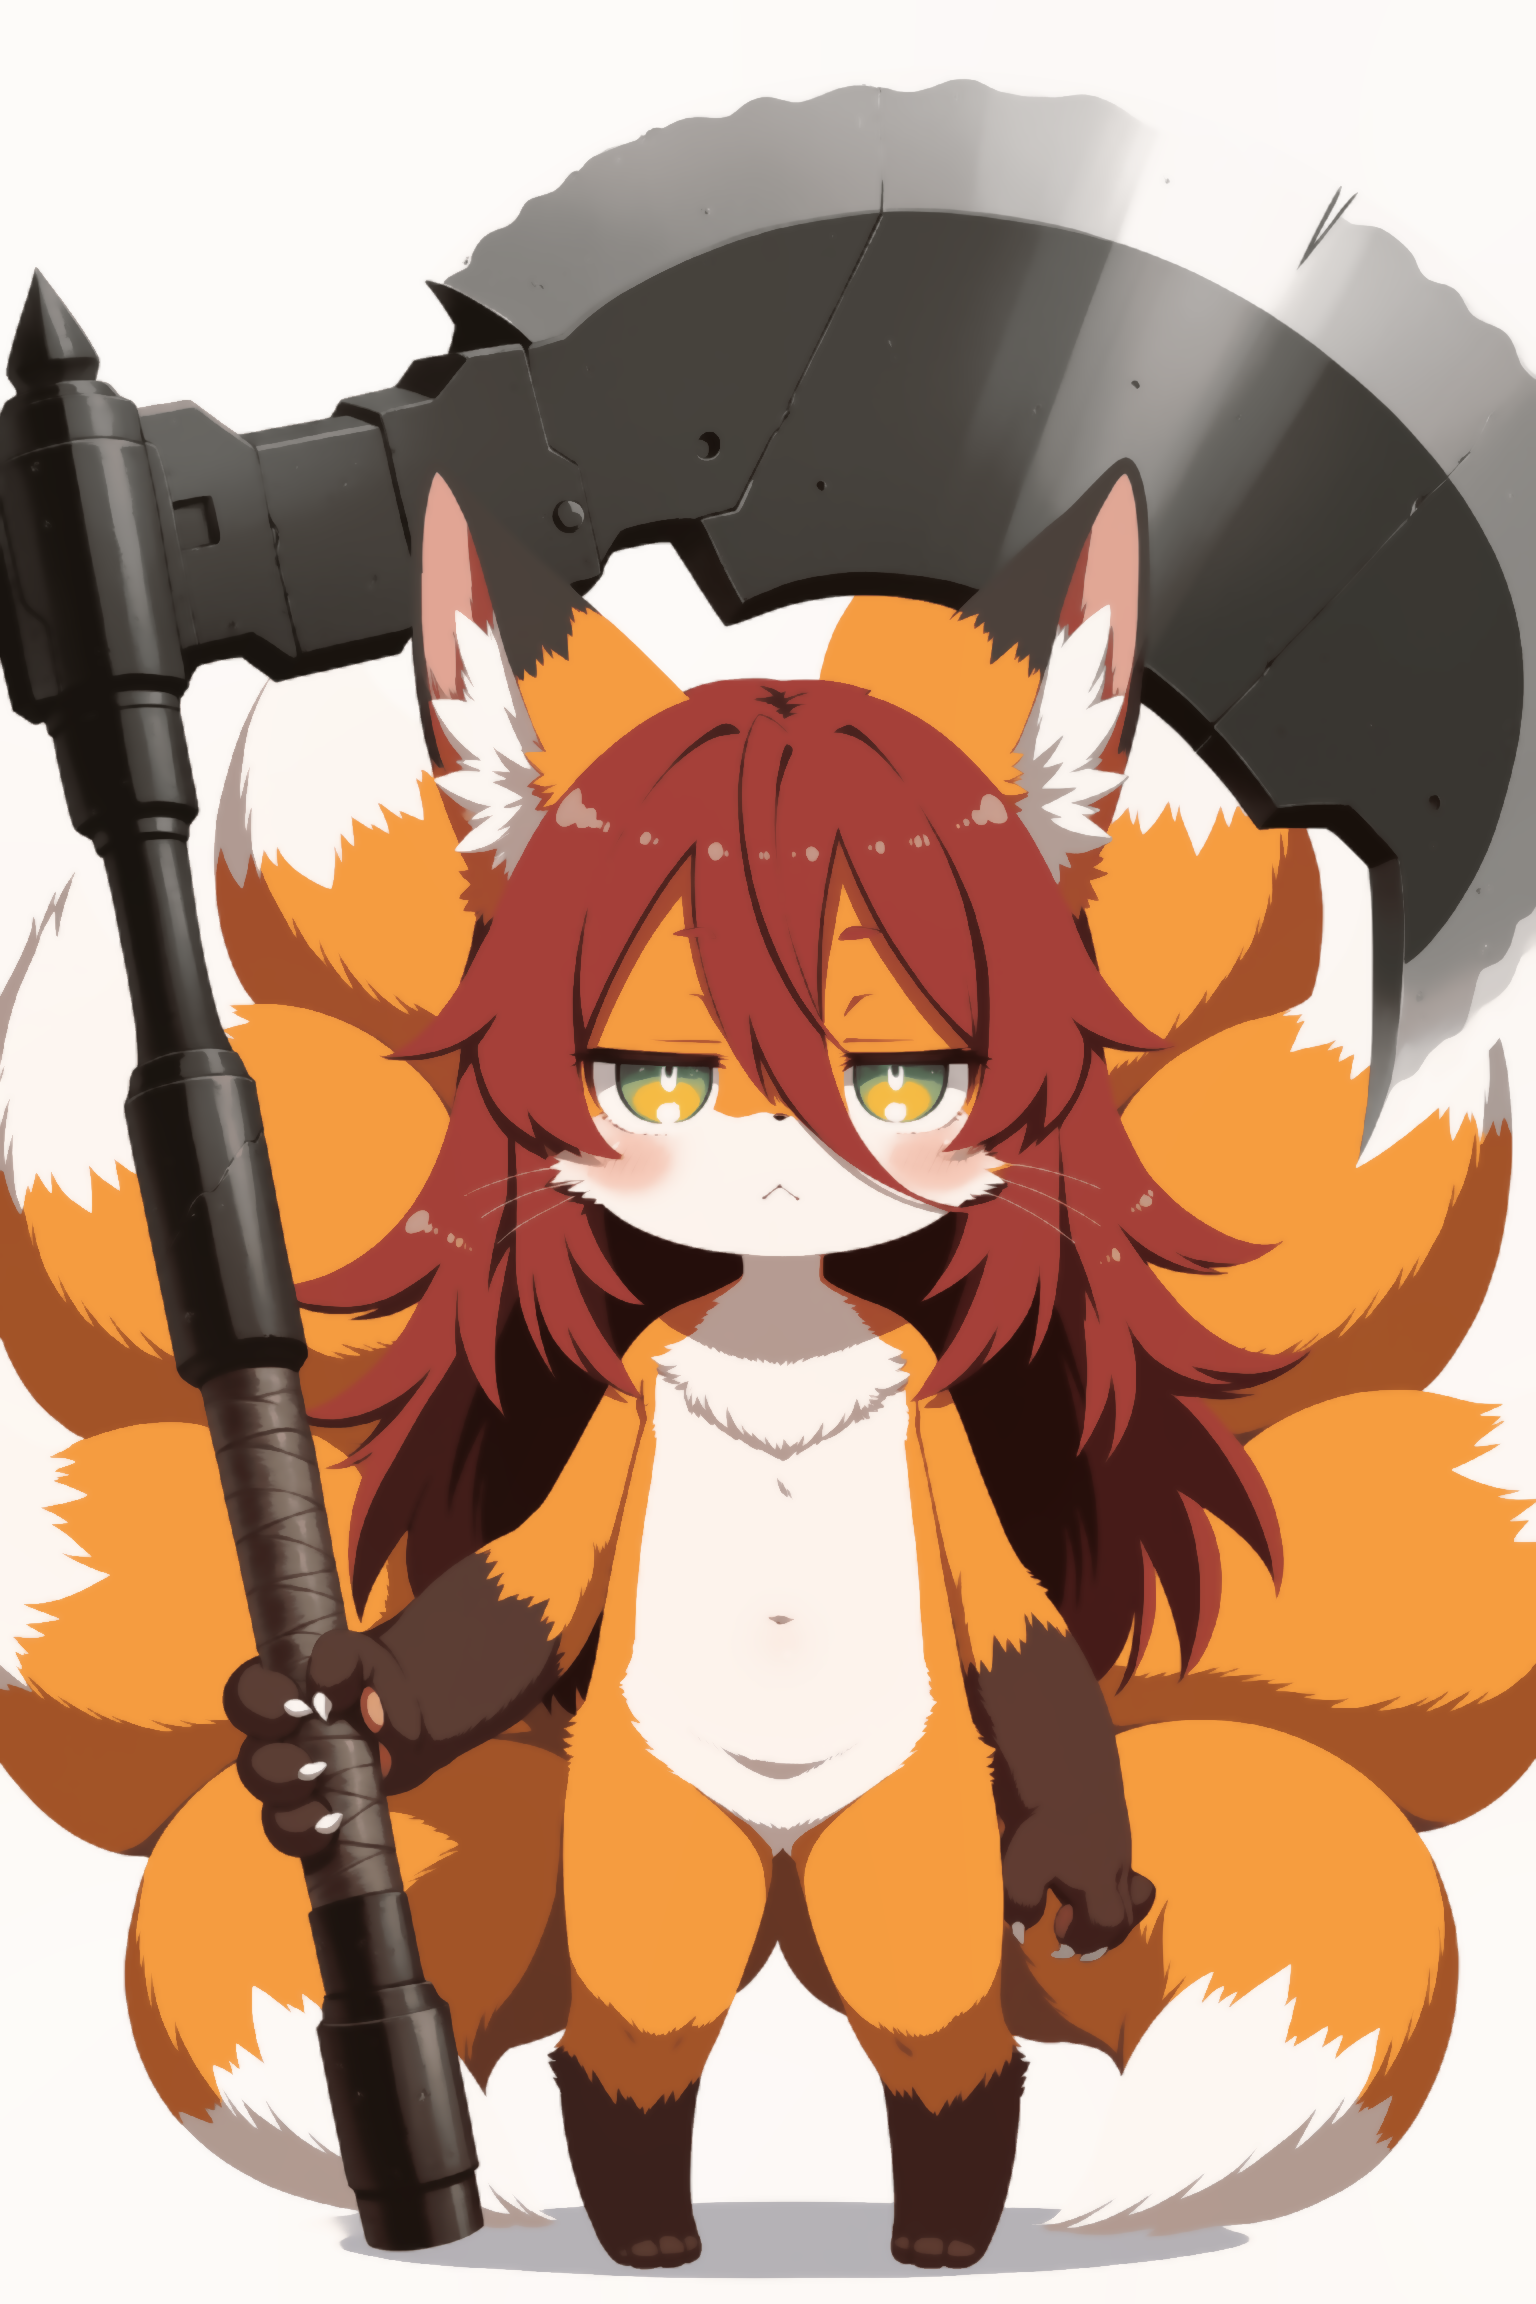
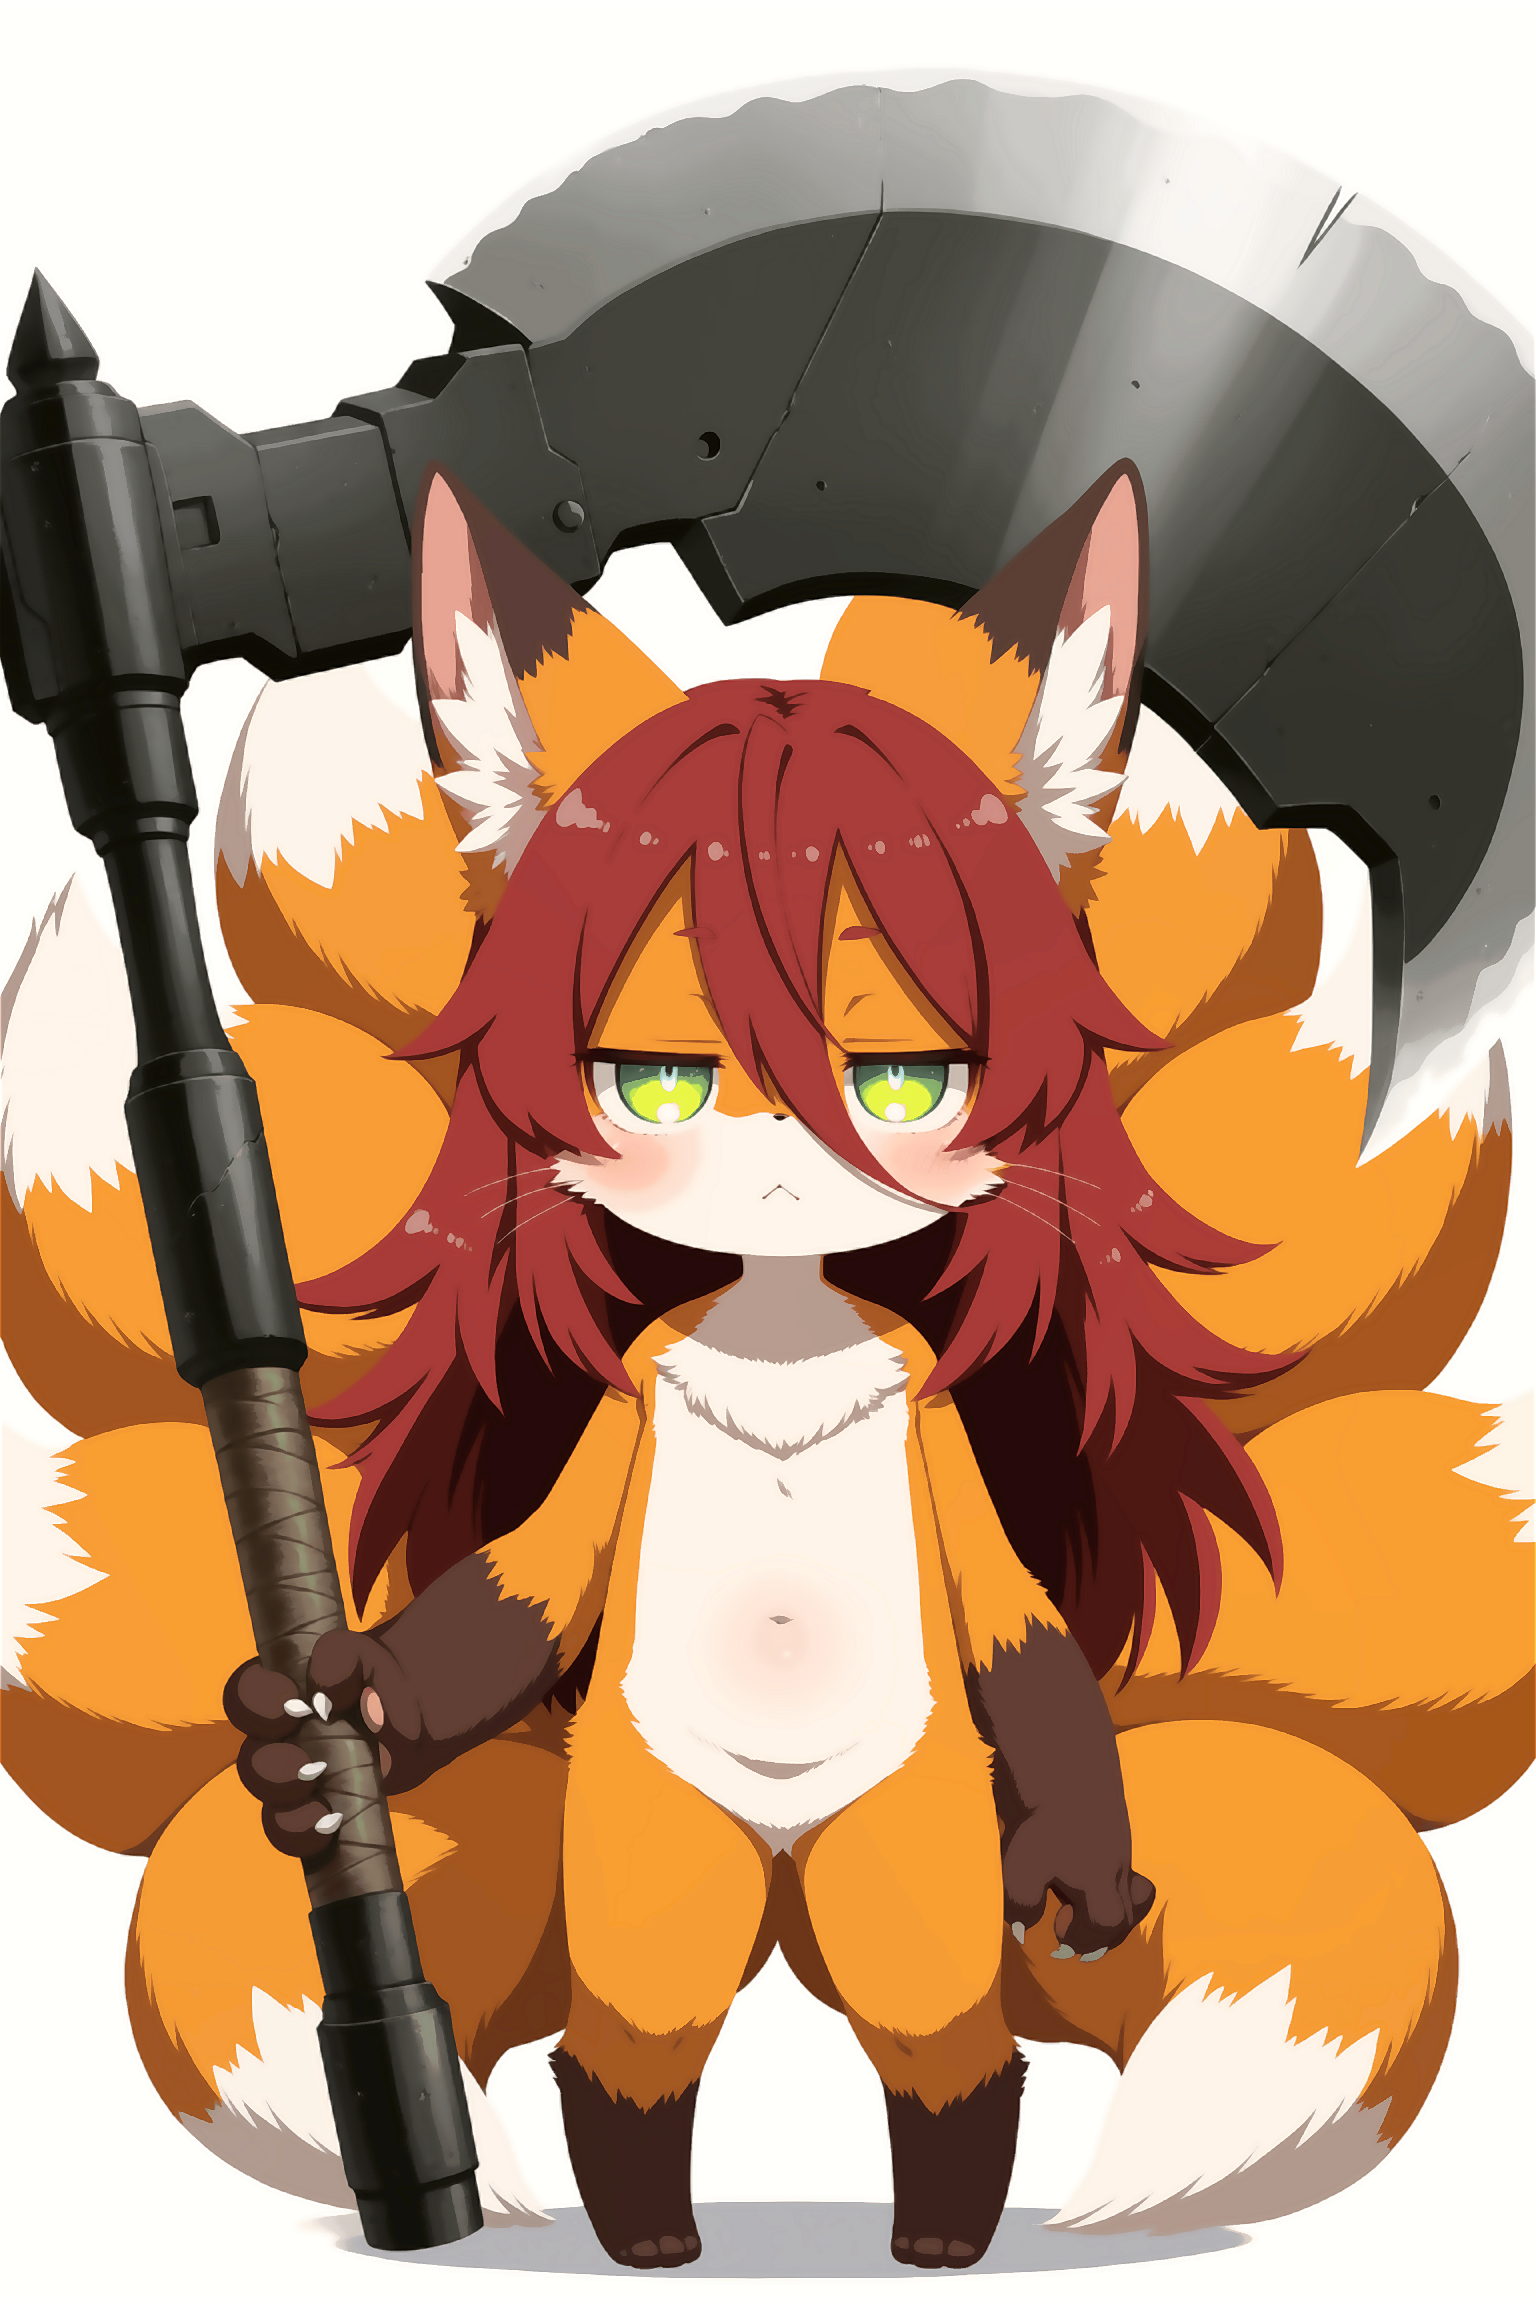
1.0.1.1
Modify default values for more accurate color to original image

Changed region(s): [[0.5625, 0.4688, 0.625, 0.5], [0.4062, 0.4688, 0.4688, 0.5], [0.625, 0.5, 0.6562, 0.5312]]

diff --git a/flat_color_gradio.py b/flat_color_gradio.py
@@ -171,10 +171,10 @@ with gr.Blocks() as demo:
         with gr.Column():
             process_button = gr.Button("Start Processing", variant="primary")
             color_transfer = gr.Dropdown(choices=["Mean", "Lab", "Pdf", "Pdf+Regrain", "None"], value="None", label="Image Color Transfer")
-            sharpen_strength = gr.Slider(minimum=0, maximum=10, value=0, step=0.1, label="Sharpen Strength 0=off")
+            sharpen_strength = gr.Slider(minimum=0, maximum=10, value=1.0, step=0.1, label="Sharpen Strength 0=off")
         with gr.Column():
             n_colors = gr.Slider(minimum=2, maximum=1024, value=512, step=1, label="Color Count, more colors = more VRAM")
-            temperature = gr.Slider(minimum=1, maximum=20, value=9, step=0.1, label="Temperature")
+            temperature = gr.Slider(minimum=1, maximum=20, value=2, step=0.1, label="Temperature")
             spatial_scale = gr.Slider(minimum=1, maximum=500, value=160, step=1, label="Spatial Scale")            
     with gr.Row():
         with gr.Column():
